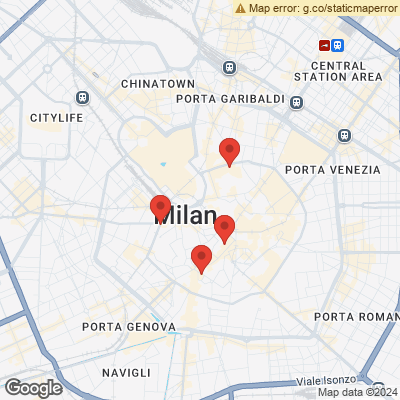
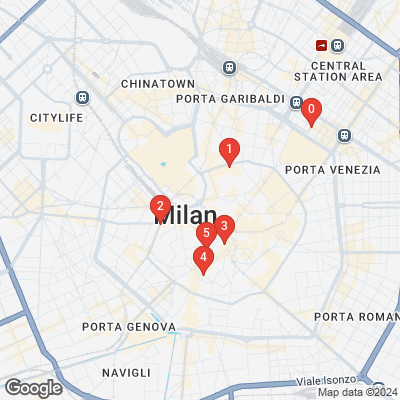
Finish with maps and matrix now returns in minutes

diff --git a/codes/distance_matrix.py b/codes/distance_matrix.py
@@ -13,8 +13,7 @@ TARGET_HOUR = 8  # 8:00 AM
 
 load_dotenv()
 
-api_key = os.getenv("GOOGLE_MAPS_API_KEY")
-gmaps = googlemaps.Client(key=api_key)
+# gmaps = googlemaps.Client(key=api_key)
 
 def get_next_target_weekday(target_weekday, target_hour):
     now = datetime.datetime.now()
@@ -67,13 +66,25 @@ def create_time_matrix_from_file(json_file):
             if i == j:
                 time_matrix[i][j] = 0  # Ensure the diagonal is 0
             elif element['status'] == 'OK':
-                time_matrix[i][j] = element['duration_in_traffic']['value']  # Time in seconds
+                time_matrix[i][j] = round(float(element['duration_in_traffic']['value']) / 60, 2)  # Time in minutes with 2 decimal places
             else:
                 time_matrix[i][j] = np.inf  # Use infinity if no valid time is available
     
     return time_matrix
 
-def main(TARGET_WEEKDAY, TARGET_HOUR):
+def create_url_matrix(url_locations, api_key):
+    url = "https://maps.googleapis.com/maps/api/distancematrix/json?"
+    url_complete = (
+        url
+        + "origins=" + url_locations
+        + "&destinations=" + url_locations
+        + "&departure_time=" + str(get_next_target_weekday(TARGET_WEEKDAY, TARGET_HOUR))
+        + "&key=" + api_key
+    )
+    return url_complete
+
+def main(TARGET_WEEKDAY, TARGET_HOUR, api_key=os.getenv("GOOGLE_MAPS_API_KEY")):
+    # api_key = os.getenv("GOOGLE_MAPS_API_KEY")
     current_dir = os.path.dirname(os.path.abspath(__file__))
     path_loc = os.path.join(current_dir, "data\\locations.txt")
     path_id = os.path.join(current_dir, "data\\places_id.txt")
@@ -87,19 +98,9 @@ def main(TARGET_WEEKDAY, TARGET_HOUR):
         print("Creating a new time matrix...")
         location_id = spi.get_location_from_file(path_id)
         url_locations = set_url_destination_params(location_id)
-        # print(url_locations)
-
-        url = "https://maps.googleapis.com/maps/api/distancematrix/json?"
-        url_complete = (
-            url
-            + "origins=" + url_locations
-            + "&destinations=" + url_locations
-            + "&departure_time=" + str(get_next_target_weekday(TARGET_WEEKDAY, TARGET_HOUR))
-            + "&key=" + api_key
-        )
+        url_complete = create_url_matrix(url_locations, api_key)
         response = requests.get(url_complete)
         time_json = response.json()
-        # print(json.dumps(distance_json, indent=4))
         with open(json_path, "w") as outfile:
             json.dump(time_json, outfile, indent=4)
 

diff --git a/codes/saves_places_id.py b/codes/saves_places_id.py
@@ -4,34 +4,41 @@ import os
 
 load_dotenv()
 
-api_key = os.getenv("GOOGLE_MAPS_API_KEY")
+
 
 def get_location_from_file(file_path):
     with open(file_path, "r") as file:
         addresses = file.readlines()
     return [address.strip() for address in addresses]
 
-def save_places_id(locations, file_path, api_key):
-    with open(file_path, "w") as file:
+def save_places_id(locations, file_path, path_geometry, api_key):
+    with open(file_path, "w") as file_id, open(path_geometry, "w") as file_geometry:
         for location in locations:
-            get_place_id(location, api_key)
-            file.write(f"{get_place_id(location, api_key)}\n")
+            place_id, geometry = get_place_id(location, api_key)
+            if place_id and geometry:
+                file_id.write(f"{place_id}\n")
+                file_geometry.write(f"{geometry}\n")
 
 def get_place_id(location, api_key):
-    url = f"https://maps.googleapis.com/maps/api/place/findplacefromtext/json?input={location}&inputtype=textquery&fields=place_id&key={api_key}"
+    # url = f"https://maps.googleapis.com/maps/api/place/findplacefromtext/json?input={location}&inputtype=textquery&fields=place_id&key={api_key}"
+    url = f"https://maps.googleapis.com/maps/api/place/findplacefromtext/json?input={location}&inputtype=textquery&fields=place_id,geometry&key={api_key}"
     response = requests.get(url)
     if response.status_code == 200:
         result = response.json()
         if result['candidates']:
-            return result['candidates'][0]['place_id']
+            place_id = result['candidates'][0]['place_id']
+            geometry = result['candidates'][0]['geometry']['location']
+            return place_id, geometry
     return None
 
-def main():
+def main(api_key=os.getenv("GOOGLE_MAPS_API_KEY")):
     current_dir = os.path.dirname(os.path.abspath(__file__))
     path_loc = os.path.join(current_dir, "data\\locations.txt")
     path_id = os.path.join(current_dir, "data\\places_id.txt")
+    path_geometry = os.path.join(current_dir, "data\\places_geometry.txt")
     locations = get_location_from_file(path_loc)
-    save_places_id(locations, path_id, api_key)
+    save_places_id(locations, path_id, path_geometry, api_key)
+
 
 if __name__ == "__main__":
     main()

diff --git a/codes/image_map_markers.py b/codes/image_map_markers.py
@@ -1,0 +1,60 @@
+import googlemaps
+from dotenv import load_dotenv
+import requests
+import os
+import saves_places_id as spi
+
+load_dotenv()
+
+center = "Milan"
+zoom = 13
+
+
+def set_markers_on_map(latitudes, longitudes):
+    markers = ""
+    for i in range(len(latitudes)):
+        markers += f"&markers=size:mid%7Ccolor:red%7Clabel:{i}%7C{latitudes[i]},{longitudes[i]}"
+    # markers = markers[:-1]  # Remove the trailing '|'
+    return markers
+
+def get_latitudes_longitudes(locations):
+    latitudes = []
+    longitudes = []
+    for location in locations:
+        location_dict = eval(location)
+        latitudes.append(location_dict["lat"])
+        longitudes.append(location_dict["lng"])
+    return latitudes, longitudes
+
+def get_static_map_url(center, zoom, markers, api_key):
+    url = "https://maps.googleapis.com/maps/api/staticmap?"
+    url_complete = (
+        url
+        + "center="
+        + center
+        + "&zoom="
+        + str(zoom)
+        + "&size=400x400&key="
+        + api_key
+        + markers
+        + "&style=feature:poi|visibility:off"
+    )
+    return url_complete
+
+def main(api_key=os.getenv("GOOGLE_MAPS_API_KEY")):
+    current_dir = os.path.dirname(os.path.abspath(__file__))
+    path_geometry = os.path.join(current_dir, "data\\places_geometry.txt")
+    image_path = os.path.join(current_dir, "output\\map_image.png")
+    locations = spi.get_location_from_file(path_geometry)
+    lattitudes, longitude = get_latitudes_longitudes(locations)
+
+    markers = set_markers_on_map(lattitudes, longitude)
+    url = get_static_map_url(center, zoom, markers, api_key)
+    print(url)
+    r = requests.get(url)
+
+    with open(image_path, "wb") as f:
+        f.write(r.content)
+
+if __name__ == "__main__":
+    main()

diff --git a/codes/test.py b/codes/test.py
@@ -1,8 +1,11 @@
 import distance_matrix as dm
+import image_map_markers as imm
+import os
 
 TARGET_WEEKDAY = 0  # MondayÇ
 TARGET_HOUR = 8
+api_key= os.getenv("GOOGLE_MAPS_API_KEY")
 
-dm.TARGET_WEEKDAY = TARGET_WEEKDAY
-dm.TARGET_HOUR = TARGET_HOUR
-print(dm.main(TARGET_WEEKDAY, TARGET_HOUR))
+# print(dm.main(TARGET_WEEKDAY, TARGET_HOUR, api_key))
+imm.main(api_key)
+
